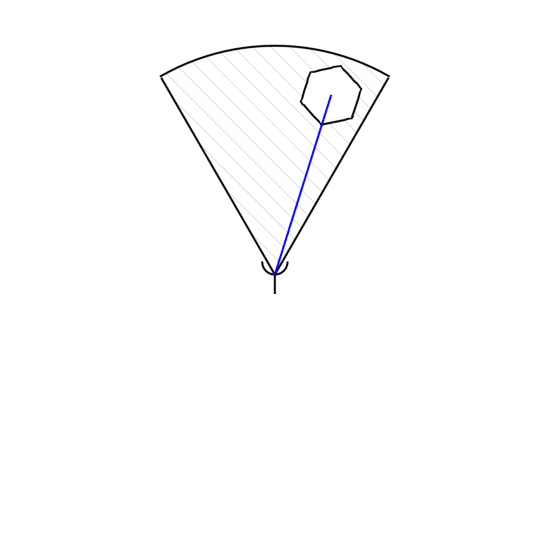
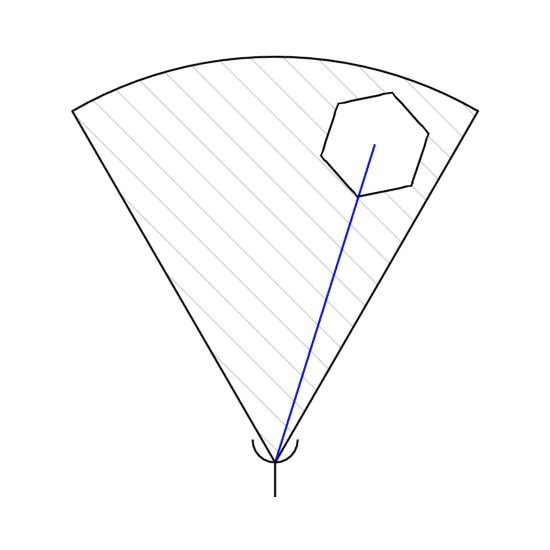
Added descriptions and images for vehicles 1-4

diff --git a/index.html b/index.html
@@ -59,55 +59,56 @@
 
 
     <p>
-      Braitenberg Vehicles were created as a thought experiment by Valentino Braitenberg. Braitenberg sought to reveal the mechanisms of the mind with his Vehicles. He did this by combining simple (albeit fantastical) hardware to produce complex behaviors. Braitenberg's Vehicles develop in sequence: instincts, emotions, logic, concepts, ideas, foresight and egotism.
+      Braitenberg Vehicles were created as a thought experiment by Valentino Braitenberg. Braitenberg sought to reveal the mechanisms of the mind with his Vehicles. He did this by combining simple (albeit fantastical) hardware to produce complex behaviors. In his book, Braitenberg develops 14 vehicles, each more sophisticated than the last. Braitenberg's Vehicles develop in turn: instincts, emotions, logic, concepts, ideas, foresight and egotism.
     </p>
 
     <p>
-      Braitenberg Pilots applies Braitenberg's Vehicle designs to the Asteroids environment to see if they can effectively survive and achieve a high score in the game.
-      ~General-solution ~Evolution
+      Braitenberg Pilots applies Braitenberg's Vehicle designs to the Asteroids game environment to see if they can effectively survive and achieve a high score in the game (i.e. are they fit for the environment). The goal is to design a very general robot which evolves to suit the environment, not to hand craft the best Asteroids AI possible. ~General-solution ~Evolution
     </p>
 
     <p>
-      The first few Braitenberg Vehicles described in <cite>Vehicles</cite> are reproduced here. These initial Vehicles introduce the components used in subsequent Vehicles. ~REVISE~Braitenberg Pilots implement the results of a thought experiment and so require a more deliberate description.~
+      The first few Braitenberg Vehicles described by Braitenberg in his book are reproduced below. These initial Vehicles introduce the components and concepts used in subsequent Vehicles. The Vehicles are introduced, observed and introduced in a style and format similar to the one used by Braitenberg in Vehicles~TITLE.
     </p>
 
 
     <!--========================= VEHICLE 1 =========================-->
     <!--=============================================================-->
-    <h2>
-      <a class="anchor" href="#vehicle-one">
-      </a>
-      Vehicle I
-    </h2>
+    <h2><a class="anchor" href="#vehicle-one"></a>Vehicle I</h2>
     
-    <h3>
-      <a class="anchor" href="#vehicle-one-description"></a>
-      Description
-    </h3>
+    <h3><a class="anchor" href="#vehicle-one-description"></a>Description</h3>
 
-    <blockquote>Vehicle I is equipped with one sensor and one motor.</blockquote>
+    <blockquote>Vehicle 1 is equipped with one sensor and one motor.</blockquote>
 
     <a href="images/Sensor01.png"><img class="lonely-image" alt="Radius Sensor" src="images/Sensor01.png"></a>
+    
+    <h4><a class="anchor" href="#radius-sensor"></a>Radius Sensor</h4>
+
     <p>
-      The sensor attached to Vehicle I detects objects in a radius extending extending from the sensor's origin. The sensor reports a normalized distance to the nearest detected object. To simplify implementation, the reported distance is measured from a detected object's origin to the sensor's origin. In this way, the sensor acts as a primitive antenna; focusing on the closest object in its field of detection.
+      The sensor attached to Vehicle 1 detects objects in a radius extending from the sensor's origin. The sensor reports a normalized distance to the nearest detected object. To simplify implementation, the reported distance is measured from the detected object's origin to the sensor's origin. In this way, the sensor acts as a primitive antenna; focusing on the closest object in its field of detection.
     </p>
+
+    <h4><a class="anchor" href="#forward-thruster"></a>Forward Thruster</h4>
+
     <p>
-      Vehicle I's sensor is connected to a forward thruster. As stimulus excites the sensor, a signal is passed to the thruster. The connection is such that, the closer an object gets, the harder the thruster works.
+      Vehicle 1 is also equipped with a thruster capable of propelling the robot forward at varying speeds. The thruster is an example of a Motor component. Motor components receive an input signal and produce some effect.
     </p>
+
     <a href="images/Vehicle01.png"><img class="lonely-image" alt="Vehicle One" src="images/Vehicle01.png"></a>
 
-    <h3>
-      <a class="anchor" href="#vehicle-one-observations"></a>
-      Observations
-    </h3>
+    <h4><a class="anchor" href="#vehicle-one-chasis"></a>Chasis</h4>
+
     <p>
-      VEHICLE I OBSERVATIONS
+      Vehicle 1's sensor is connected to the forward thruster. The forward thruster is depicted as a pentagon with an arrow indicating the exhaust direction. As stimulus excites the sensor, a signal is passed to the thruster. The connection is such that, the closer an object gets, the harder the thruster works. More-more connections like this are depicted in diagrams as red wires (as seen in figure 2).
     </p>
 
-    <h3>
-      <a class="anchor" href="#vehicle-one-observations"></a>
-      Demonstration
-    </h3>
+    <h3><a class="anchor" href="#vehicle-one-observations"></a>Observations</h3>
+
+    <p>
+      Vehicle 1 floats casually at first but when an asteroid approaches, he begins to move forward. If approached from behind, he creeps ahead of the approaching asteroid, only just keeping it at the edge of his senses. If approached from the fore, he rapidly accelerates forward; often shooting himself into the approacher, occasionally slipping past into open space.
+    </p>
+
+    <h3><a class="anchor" href="#vehicle-one-demonstration"></a>Demonstration</h3>
+
     <embed
       class="applet"
       type="application/x-java-applet;version=1.6"
@@ -116,37 +117,64 @@
       code="Asteroids.class"
       pluginspage="http://java.com/download/"
       myParam="" />
+
     <p>
       Select the Applet and press 'S' to start. Press 'P' to pause the Applet at any time.
     </p>
+
+    <h3><a class="anchor" href="#vehicle-one-analysis"></a>Analysis</h3>
+
+    <p>
+      Vehicle 1 is a simple creature. He loves wide open spaces. Crowded areas agitate him to flight. He is a fickle creature, always searching for a totally empty spot; never happy with almost perfect. He lacks strategy and would rather plough through a dense crowd ahead of him than bear the slightest company or move around it.
+    </p>
+
     <hr />
 
 
     <!--========================= VEHICLE 2 =========================-->
     <!--=============================================================-->
-    <h2>
-      <a id="vehicle-two" class="anchor" href="#vehicle-two">
-      </a>
-      Vehicle 2
-    </h2>
+    <h2><a id="vehicle-two" class="anchor" href="#vehicle-two"></a>Vehicle 2</h2>
+
+    <h3><a class="anchor" href="#vehicle-two-description"></a>Description</h3>
+
+    <blockquote>Vehicle 2 is generally similar to Vehicle 1 except that it has two sensors, one on each side, and two motors, right and left.</blockquote>
+
     <a href="images/Sensor02.png"><img class="lonely-image" alt="Cone Sensor" src="images/Sensor02.png"></a>
-    <p>
-      Description of vehicle two...
-    </p>
-    <a href="images/Vehicle02.png"><img class="lonely-image" alt="Vehicle Two" src="images/Vehicle02.png"></a>
 
-    <h3>
-      <a class="anchor" href="#vehicle-one-observations"></a>
-      Observations
-    </h3>
+    <h4><a class="anchor" href="#cone-sensor"></a>Cone Sensor</h4>
+
     <p>
-      VEHICLE II OBSERVATIONS
+      Vehicle 2 utilizes a Cone Sensor to acheive more focused behavior than is possible with the antenna-like Radius Sensor. Cone Sensors detect objects in a cone extending away from the sensor. Again, the sensor reports the normalized distance to the nearest detected object. The resulting sensor mimics a simple eye; concerned with only the nearest object.
     </p>
 
-    <h3>
-      <a class="anchor" href="#vehicle-one-observations"></a>
-      Demonstration
-    </h3>
+    <h4><a class="anchor" href="#gyroscope"></a>Gyroscope</h4>
+
+    <p>
+      Vehicle 2 comes equipped with two gyroscopes. Each gyroscope exerts force in the rotational direction indicated by a curved arrow. The gyroscopes rotate their Vehicle whenever they are passed a signal from an attached sensor. Gyroscopes conteract eachother such that if two opposing gyroscopes (one clock-wise and one counter-clockwise) are equally excited, no rotation will occur.
+    </p>
+
+    <a href="images/Vehicle02A.png"><img class="lonely-image" alt="Vehicle Two" src="images/Vehicle02A.png"></a>
+
+    <a href="images/Vehicle02B.png"><img class="lonely-image" alt="Vehicle Two" src="images/Vehicle02B.png"></a>
+
+    <h4><a class="anchor" href="#vehicle-two-chasis"></a>Chasis</h4>
+
+    <p>
+      Vehicle 2's cone sensors are tilted apart such that their field of view overlaps only slightly. Two significant wiring configurations are possible in this Vehicle. The left-facing sensor may be connected to the left-side gyroscope and the right-sensor with the right gyroscope (a so called uncrossed connection as in figure XXX). Alternatively, the connections may be crossed such that the left-facing sensor is connected with the right-side gyro and the right-facing sensor is connected with the left-side gyro (as in figure XXX). In either case, the thruster is connected to each sensor as in Vehicle 1.
+    </p>
+
+    <p>
+      For convenience, the uncrossed configuration will be refered to as Vehicle 2A and the crossed configuration 2B.
+    </p>
+
+    <h3><a class="anchor" href="#vehicle-two-observations"></a>Observations</h3>
+
+    <p>
+      OBSERVATIONS
+    </p>
+
+    <h3><a class="anchor" href="#vehicle-two-demonstration"></a>Demonstration</h3>
+
     <embed
       class="applet"
       type="application/x-java-applet;version=1.6"
@@ -156,6 +184,173 @@
       pluginspage="http://java.com/download/"
       myParam="" />
 
+    <p>
+      Select the Applet and press 'S' to start. Press 'P' to pause the Applet at any time.
+    </p>
+
+    <h3><a class="anchor" href="#vehicle-two-analysis"></a>Analysis</h3>
+
+    <p>
+      ANALYSIS
+    </p>
+
+    <hr />
+
+
+    <!--========================= VEHICLE 3 =========================-->
+    <!--=============================================================-->
+    <h2><a id="vehicle-three" class="anchor" href="#vehicle-three"></a>Vehicle 3</h2>
+
+    <h3><a class="anchor" href="#vehicle-three-description"></a>Description</h3>
+
+    <blockquote>There is something very crude about a vehicle that can only be excited by the things it smells (or sees or hears) and knows no soothing or relaxing stimuli.</blockquote>
+
+    <a href="images/Vehicle03A.png"><img class="lonely-image" alt="Vehicle Three" src="images/Vehicle03A.png"></a>
+
+    <a href="images/Vehicle03B.png"><img class="lonely-image" alt="Vehicle Three" src="images/Vehicle03B.png"></a>
+
+    <h4><a class="anchor" href="#vehicle-three-chasis"></a>Chasis</h4>
+
+    <p>
+      Vehicles 3A and 3B are equipped with the same sensors and motors as Vehicles 2A and 2B but with a novel wiring scheme. Vehicle 3's connections are inverted such that; when a sensor is deprived of stimulus (there is nothing to detect) the attached Motor is fired at full capacity. When a sensor is excited, the attached component is inhibited and acts with less force. Such inverted connections are depicted in figure XXX as blue wires.
+    </p>
+
+    <h3><a class="anchor" href="#vehicle-three-observations"></a>Observations</h3>
+
+    <p>
+      OBSERVATIONS
+    </p>
+
+    <h3><a class="anchor" href="#vehicle-three-demonstration"></a>Demonstration</h3>
+
+    <embed
+      class="applet"
+      type="application/x-java-applet;version=1.6"
+      width="600" height="600" 
+      archive="flotsam.jar"
+      code="Asteroids.class"
+      pluginspage="http://java.com/download/"
+      myParam="" />
+
+    <p>
+      Select the Applet and press 'S' to start. Press 'P' to pause the Applet at any time.
+    </p>
+
+    <h3><a class="anchor" href="#vehicle-three-analysis"></a>Analysis</h3>
+
+    <p>
+      ANALYSIS
+    </p>
+
+    <hr />
+
+    <!--========================= VEHICLE 4 =========================-->
+    <!--=============================================================-->
+    <h2><a id="vehicle-four" class="anchor" href="#vehicle-four"></a>Vehicle 4</h2>
+
+    <h3><a class="anchor" href="#vehicle-four-description"></a>Description</h3>
+
+    <blockquote>QUOTE</blockquote>
+    
+    <a href="images/Sensor02.png"><img class="lonely-image" alt="Cone Sensor" src="images/Sensor02.png"></a>
+
+    <h4><a class="anchor" href="#modulator"></a>Modulator</h4>
+
+    <p>
+      Vehicle 4 introduces Modulators to our wiring schemes. Past connections, inverted or not, assumed a linear relationship between sensor output and motor stimulation. Either, the more-stimulue the more-output or the more-stimulus the less-output. Modulators take a signal from a sensor, input the signal to a function, and return the result. Multiple Sensors can be connected to a single Modulator. In that case, all the Sensor signals will be added together and input to the modulator's function (similar to wiring batteries series to acheive higher voltage). Multiple motors may also be connected to the output of a modulator. Modulators are represented in our figures as a disc labeled f~cursive-symbol~. Modulators allow for a stunning array of behaviours and configurations.
+    </p>
+
+    <a href="images/Vehicle04A.png"><img class="lonely-image" alt="Vehicle Four" src="images/Vehicle04A.png"></a>
+
+    <a href="images/Vehicle04B.png"><img class="lonely-image" alt="Vehicle Four" src="images/Vehicle04B.png"></a>
+
+    <h4><a class="anchor" href="#vehicle-four-chasis"></a>Chasis</h4>
+
+    <p>
+      Vehicles 4A and 4B are equipped with the same sensors and motors as Vehicles 3A and 3B. However, Modulators intercept the connections between the Sensors and Motors of these new Vehicles. The Modulators used here are modeled by the curve shown in figure XXX (a parabolic curve of the form f(x)=-4(X^2-X) || MAYBE 4(X^2-X)+1 IS MORE INTERESTING???).
+    </p>
+
+    <h3><a class="anchor" href="#vehicle-four-observations"></a>Observations</h3>
+
+    <p>
+      OBSERVATIONS
+    </p>
+
+    <h3><a class="anchor" href="#vehicle-four-demonstration"></a>Demonstration</h3>
+
+    <embed
+      class="applet"
+      type="application/x-java-applet;version=1.6"
+      width="600" height="600" 
+      archive="flotsam.jar"
+      code="Asteroids.class"
+      pluginspage="http://java.com/download/"
+      myParam="" />
+
+    <p>
+      Select the Applet and press 'S' to start. Press 'P' to pause the Applet at any time.
+    </p>
+
+    <h3><a class="anchor" href="#vehicle-four-analysis"></a>Analysis</h3>
+
+    <p>
+      ANALYSIS
+    </p>
+
+    <hr />
+
+    <!--========================= VEHICLE 5 =========================-->
+    <!--=============================================================-->
+    <h2><a id="vehicle-five" class="anchor" href="#vehicle-five"></a>Vehicle 5</h2>
+
+    <h3><a class="anchor" href="#vehicle-five-description"></a>Description</h3>
+
+    <blockquote>QUOTE</blockquote>
+
+    <h4><a class="anchor" href="#cone-sensor"></a>Cone Sensor</h4>
+
+    <a href="images/Sensor02.png"><img class="lonely-image" alt="Cone Sensor" src="images/Sensor02.png"></a>
+
+    <p>
+      COMPONENT
+    </p>
+
+    <h4><a class="anchor" href="#vehicle-five-chasis"></a>Chasis</h4>
+
+    <a href="images/Vehicle05.png"><img class="lonely-image" alt="Vehicle Five" src="images/Vehicle05.png"></a>
+
+    <p>
+      DESCRIPTION
+    </p>
+
+    <h3><a class="anchor" href="#vehicle-five-observations"></a>Observations</h3>
+
+    <p>
+      OBSERVATIONS
+    </p>
+
+    <h3><a class="anchor" href="#vehicle-five-demonstration"></a>Demonstration</h3>
+
+    <embed
+      class="applet"
+      type="application/x-java-applet;version=1.6"
+      width="600" height="600" 
+      archive="flotsam.jar"
+      code="Asteroids.class"
+      pluginspage="http://java.com/download/"
+      myParam="" />
+
+    <p>
+      Select the Applet and press 'S' to start. Press 'P' to pause the Applet at any time.
+    </p>
+
+    <h3><a class="anchor" href="#vehicle-five-analysis"></a>Analysis</h3>
+
+    <p>
+      ANALYSIS
+    </p>
+
+    <hr />
 
     <!--========================= Evolving Vehicles =========================-->
     <!--=====================================================================-->

diff --git a/stylesheets/stylesheet.css b/stylesheets/stylesheet.css
@@ -64,6 +64,9 @@ h1, h2, h3, h4, h5, h6 {
   color:#222222;
   font-family: 'Lucida Grande', 'Calibri', Helvetica, Arial, sans-serif;
   letter-spacing: -1px;
+}
+
+h1, h2, h3 {
   clear: both;
 }
 
